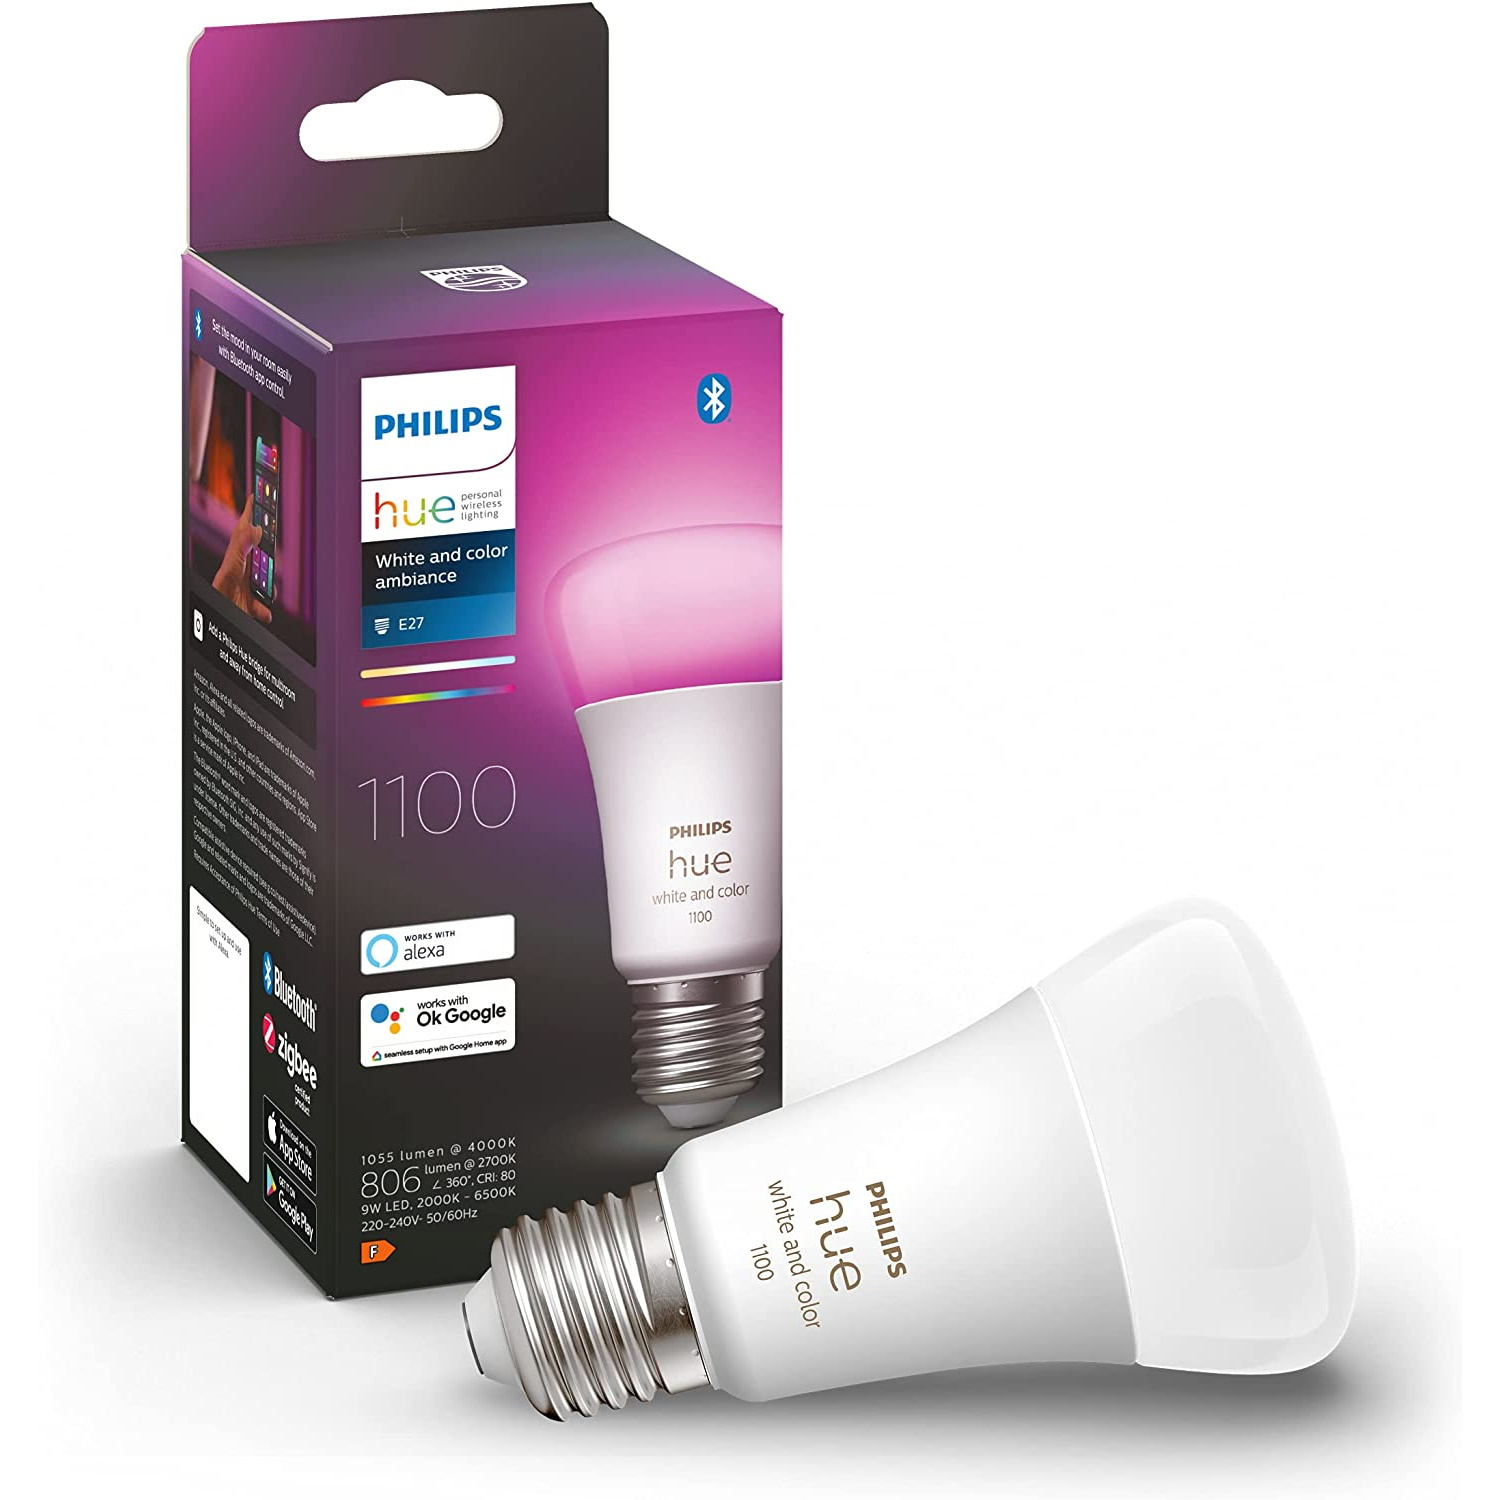
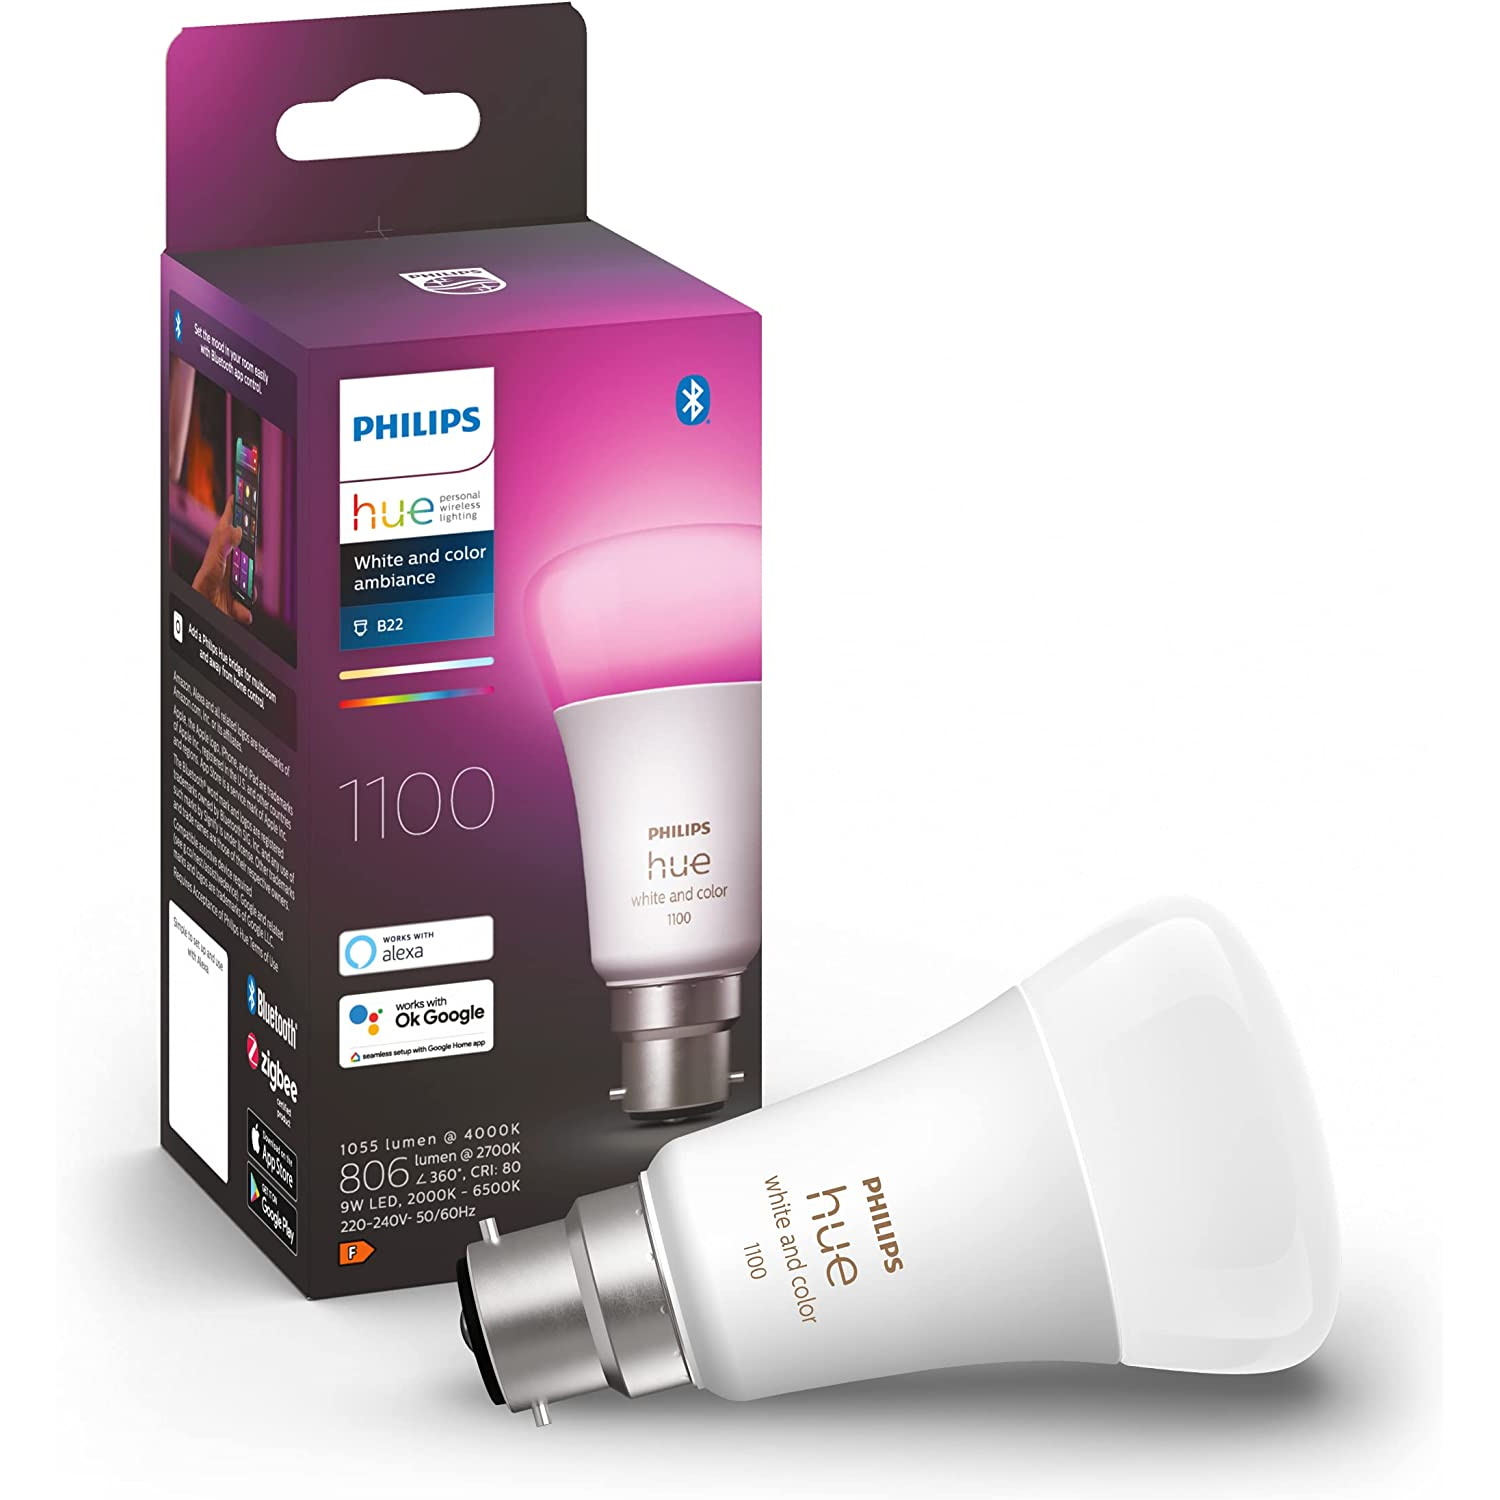
new devices

diff --git a/_zigbee/Philips_LCA006.md b/_zigbee/Philips_LCA006.md
@@ -1,19 +1,16 @@
 ---
-date_added: 2021-12-03
+date_added: 2021-12-23
 model: LCA006
 vendor: Philips
-title: Hue White and Color 1100 A60 E27
+title: Hue White and Color 1100 B22
 category: light
 supports: on/off, brightness, colortemp, color
 zigbeemodel: ['LCA006']
-compatible: [zha,z2m]
-z2m: 9290022266A
-mlink: https://www.philips-hue.com/en-gb/p/hue-white-and-colour-ambiance-1-pack-e27/8719514291171
-link: https://www.amazon.de/dp/B099P3CP1K
-link2: https://www.tink.de/philips-hue-white-color-ambiance-e27-1100
-link3: https://www.idealo.de/preisvergleich/OffersOfProduct/201601961_-hue-white-and-color-ambiance-800-e27-bluetooth-929002489601-philips.html
+compatible: [z2m]
+z2m: 9290024689
+mlink: https://www.philips-hue.com/en-gb/p/hue-white-and-colour-ambiance-1-pack-b22/8719514291218
+link: https://www.amazon.co.uk/dp/B099NQRCFX/
 EAN: 
   - 8719514291171
-  - 929002468801
-  - 929002468804
+  - 929002468901
 ---

diff --git a/_zigbee/Philips_4096730P6.md b/_zigbee/Philips_4096730P6.md
@@ -5,14 +5,17 @@ vendor: Philips
 title: Hue Cher Ceiling Light
 category: light
 supports: on/off, brightness, colortemp
-zigbeemodel: ['4096730P6']
+zigbeemodel: ['4096730P6', '929003055601']
 compatible: [z2m]
 mlink: https://www.philips-hue.com/en-hk/p/hue-white-ambiance-cher-ceiling-light/4096730P6
 link: https://www.amazon.fr/dp/B088S153NB
 link2: https://www.amazon.de/dp/B088S153NB
 link3: https://www.alza.de/philips-hue-cher-40967-30-p7-d5095984.htm
+link4: https://www.idealo.de/preisvergleich/Typ/8719514341173.html
 EAN: 
   - 40967/30/P6
   - 8718696175231
   - 915005914101
+  - 8719514341173
+  - 929003055601
 ---

diff --git a/_zigbee/Philips_5047230P6.md b/_zigbee/Philips_5047230P6.md
@@ -1,0 +1,17 @@
+---
+date_added: 2021-12-26
+model: 5047230P6 
+vendor: Philips
+title: Hue Buckram Ddouble Spotlight (Black)
+category: light
+supports: on/off, brightness, colortemp, colorxy
+zigbeemodel: ['5047230P6']
+compatible: [z2m]
+mlink: https://www.philips-hue.com/en-gb/p/-/5047230P6
+link: https://www.amazon.co.uk/dp/B088RX9CPY
+link2: https://www.idealo.de/preisvergleich/OffersOfProduct/201417964_-hue-white-ambiance-buckram-2-spots-bluetooth-schwarz-philips.html
+link3: https://www.tink.de/philips-hue-white-ambiance-buckram-spot-2flg-2x350lm-dimmschalter
+EAN: 
+  - 8718696175637
+  - 915005918401
+---

diff --git a/_zigbee/Philips_1740193P0.md b/_zigbee/Philips_1740193P0.md
@@ -1,0 +1,19 @@
+---
+date_added: 2021-12-23
+model: 1740193P0
+vendor: Philips
+title: Hue Lucca Outdoor Wall Light
+category: light
+supports: on/off, brightness
+zigbeemodel: ['1740193P0']
+compatible: [z2m]
+mlink: https://www.philips-hue.com/en-gb/p/-/1740193P0
+link: https://www.amazon.de/dp/B07CBD5DBC
+link2: https://www.idealo.de/preisvergleich/OffersOfProduct/6182315_-hue-lucca-1740193p0-philips.html
+link3: https://www.tink.de/philips-hue-led-wandleuchte-lucca
+EAN: 
+  - 1740193P0
+  - 8718696166048
+  - 915005561201
+---
+

diff --git a/_zigbee/OWON_AC201.md b/_zigbee/OWON_AC201.md
@@ -1,12 +1,12 @@
 ---
-date_added: 2020-11-17
+date_added: 2021-12-27
 model: AC201
 vendor: OWON
 title: Split A/C Controller
 category: hvac
 supports: on/off, heating, cooling
 zigbeemodel: ['AC201']
-compatible: [deconz, zigate]
+compatible: [deconz, zigate, z2m]
 deconz: 3374
 mlink: https://www.owon-smart.com/high-quality-zigbee-gateway-zigbee-infrared-temperature-control-thermostat-ir-split-ac-controller-ac201-owon-product/
 link: https://www.alibaba.com/product-detail/ZigBee-Smart-Remote-Control-Split-air_62024497109.html

diff --git a/_zigbee/Zemismart_ZM-ZBCZ-EU.md b/_zigbee/Zemismart_ZM-ZBCZ-EU.md
@@ -5,9 +5,10 @@ vendor: Zemismart
 title: Smart Plug EU
 category: plug
 supports: on/off
-zigbeemodel: ['TS011F', '_TZ3000_hyfvrar3']
+zigbeemodel: ['TS011F', '_TZ3000_hyfvrar3','_TZ3000_cymsnfvf']
 compatible: [z2m]
 z2m: TS011F_plug_2
 mlink: https://www.zemismart.com/products/zemismart-zigbee-smart-plug-power-socket-timing-function-home-voice-remote-tuya-smart-life-app-control-with-alexa-google-home
 link: https://www.aliexpress.com/item/1005002459911432.html
+link2: https://www.aliexpress.com/item/1005002344798281.html
 ---

diff --git a/_zigbee/Philips_LWE004.md b/_zigbee/Philips_LWE004.md
@@ -1,0 +1,18 @@
+---
+date_added: 2021-12-26
+model: LWE004
+vendor: Philips
+title: Hue White Filament Candle E14
+category: light
+supports: on/off, brightness
+zigbeemodel: ['LWE004']
+compatible: [z2m]
+z2m: 8719514302235
+mlink: https://www.philips-hue.com/en-gb/p/hue-white-filament-single-bulb-e14/8719514302235
+link: https://www.idealo.de/preisvergleich/OffersOfProduct/201615277_-hue-white-ambience-filament-e14-4-5w-300lm-929002479501-philips.html
+link2: 
+link3: 
+EAN: 
+  - 8719514302235
+  - 929002479501
+---

diff --git a/_zigbee/Philips_LWE007.md b/_zigbee/Philips_LWE007.md
@@ -1,0 +1,18 @@
+---
+date_added: 2021-12-27
+model: LWE007
+vendor: Philips
+title: Hue White E14
+category: light
+supports: on/off, brightness
+zigbeemodel: ['LWE007']
+compatible: [z2m]
+z2m: 9290030211
+mlink: https://www.philips-hue.com/en-gb/p/hue-white-single-bulb-e14/8719514320666
+link: https://www.idealo.de/preisvergleich/OffersOfProduct/201638192_-hue-white-e14-5-5w-470lm-929003021101-philips.html
+link2: 
+link3: 
+EAN: 
+  - 8719514320666
+  - 929003021101
+---

diff --git a/_zigbee/Beca_BRT-100.md b/_zigbee/Beca_BRT-100.md
@@ -6,7 +6,7 @@ title: Thermostatic Radiator Valve
 zigbeemodel: ['TS0601','_TZE200_b6wax7g0']
 category: hvac
 supports: thermostat, temperature, battery, window detection, child lock
-compatible: [z2m,zha]
+compatible: [z2m]
 z2m: BRT-100-TRV 
 mlink: https://www.moeshouse.com/collections/zigbee/products/tuya-zigbee3-0-new-mini-radiator-actuator-valve-smart-programmable-thermostat-temperature-controller
 link: https://www.aliexpress.com/item/1005002433574444.html

diff --git a/_zigbee/Philips_4090330P9.md b/_zigbee/Philips_4090330P9.md
@@ -2,10 +2,10 @@
 date_added: 2021-05-26
 model: 4090330P9
 vendor: Philips
-title: Hue Ensis Pendant Light
+title: Hue Ensis Pendant Light (Black)
 category: light
 supports: on/off, brightness, colortemp, color
-zigbeemodel: ['4090330P9_01', '4090330P9_02']
+zigbeemodel: ['4090330P9_01', '4090330P9_02', '929003052501_01', '929003052501_02']
 compatible: [z2m]
 mlink: https://www.philips-hue.com/en-gb/p/-/4090330P9
 link: https://www.amazon.co.uk/dp/B08CXWVY6S

diff --git a/_zigbee/OWON_THS317-ET.md b/_zigbee/OWON_THS317-ET.md
@@ -1,0 +1,15 @@
+---
+date_added: 2021-12-21
+model: THS317-ET
+vendor: OWON
+title: Temperature and Humidity Sensor
+category: sensor
+supports: temperature, humidity, battery
+zigbeemodel: ['THS317']
+compatible: [z2m]
+z2m: THS317
+mlink: https://www.owon-smart.com/zigbee-temperature-sensor-with-probe-ths-317-et-product/
+link: https://www.alibaba.com/product-detail/Mini-Smart-Home-Security-Zigbee-Temperature_1600183672978.html
+link2: 
+link3: 
+---

diff --git a/_zigbee/Ikea_LED1925G6.md b/_zigbee/Ikea_LED1925G6.md
@@ -5,7 +5,7 @@ vendor: IKEA
 title: Tradfri LED bulb E14 470 lumen, dimmable colour and white, globe opal white
 category: light
 supports: on/off, brightness, color
-zigbeemodel: ['TRADFRI bulb E14 CWS 470lm']
+zigbeemodel: ['TRADFRI bulb E14 CWS 470lm', 'TRADFRI bulb E12 CWS 450lm']
 compatible: [z2m]
 mlink: https://www.ikea.com/gb/en/p/tradfri-led-bulb-e14-470-lumen-wireless-dimmable-colour-and-white-spectrum-globe-opal-white-70517636/
 link: 
